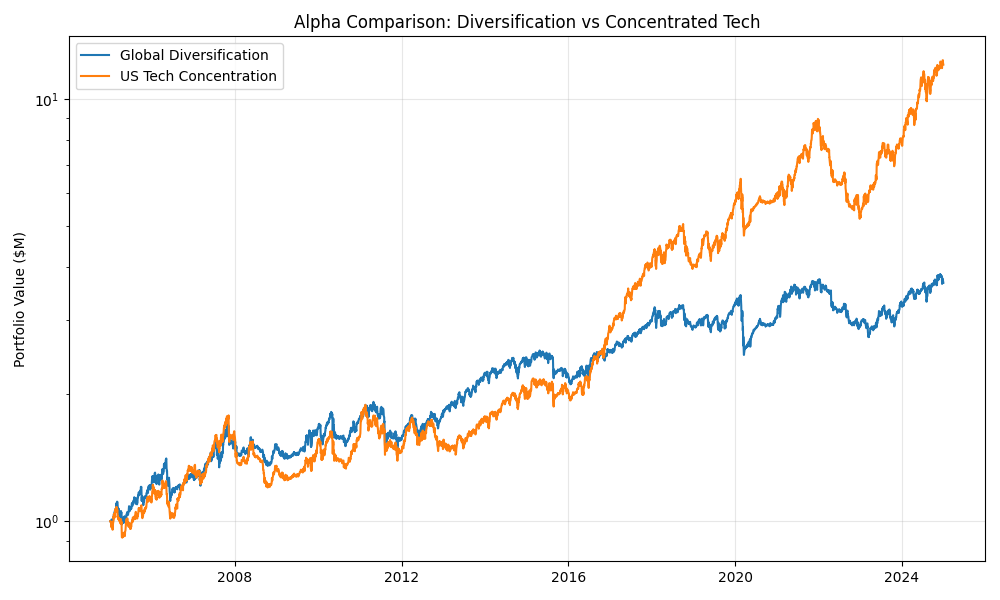
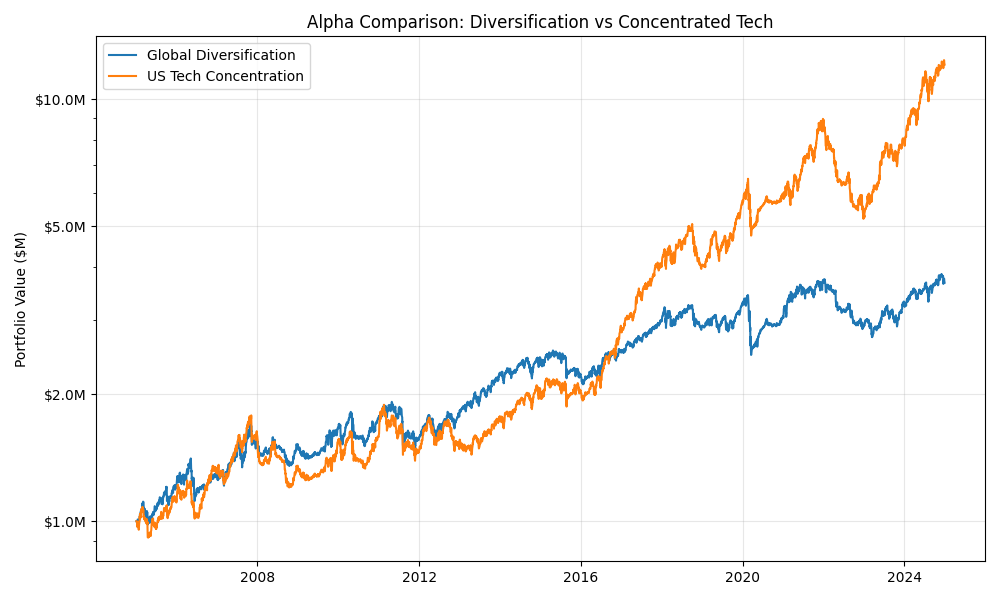
style: implement high-resolution axis granularity for all 21 figures

diff --git a/run_all_experiments.py b/run_all_experiments.py
@@ -78,6 +78,12 @@ def exp_cost():
         plt.plot(c.index, c.values / 1e6, label=c.name)
     plt.title("Cost Impact on Portfolio Growth (Log Scale)")
     plt.yscale('log')
+    # Granular Log-Scale Axis
+    import matplotlib.ticker as mtick
+    plt.gca().yaxis.set_major_locator(mtick.LogLocator(base=10, subs=[1.0, 2.0, 5.0]))
+    plt.gca().yaxis.set_major_formatter(mtick.ScalarFormatter())
+    plt.gca().get_yaxis().set_major_formatter(mtick.FuncFormatter(lambda x, _: f"${x:.1f}M"))
+    
     plt.ylabel("Portfolio Value ($M)")
     plt.grid(True, alpha=0.3)
     plt.legend()
@@ -108,6 +114,8 @@ def exp_mom():
     
     ax1.set_ylabel('CAGR (%)', color='skyblue')
     ax2.set_ylabel('Sharpe Ratio', color='orange')
+    ax1.yaxis.set_major_locator(plt.MaxNLocator(nbins=6))
+    ax2.yaxis.set_major_locator(plt.MaxNLocator(nbins=6))
     plt.xticks(x, df['Window'])
     plt.title("Momentum Window Comparison")
     plt.grid(True, axis='y', alpha=0.3)
@@ -132,6 +140,12 @@ def exp_smoothing():
         plt.plot(c.index, c.values / 1e6, label=c.name)
     plt.title("Effect of Laddered Smoothing on Equity Curve")
     plt.yscale('log')
+    # Granular Log-Scale Axis
+    import matplotlib.ticker as mtick
+    plt.gca().yaxis.set_major_locator(mtick.LogLocator(base=10, subs=[1.0, 2.0, 5.0]))
+    plt.gca().yaxis.set_major_formatter(mtick.ScalarFormatter())
+    plt.gca().get_yaxis().set_major_formatter(mtick.FuncFormatter(lambda x, _: f"${x:.1f}M"))
+    
     plt.ylabel("Portfolio Value ($M)")
     plt.grid(True, alpha=0.3)
     plt.legend()
@@ -155,6 +169,7 @@ def exp_lag():
     plt.title("Performance Sensitivity to Reporting Lag")
     plt.xlabel("Reporting Lag (Days)")
     plt.ylabel("CAGR (%)")
+    plt.gca().yaxis.set_major_locator(plt.MaxNLocator(nbins=8))
     plt.grid(True, alpha=0.3)
     plt.tight_layout()
     plt.savefig(f"{PLOTS_DIR}research_4_fundamental_lag.png")
@@ -178,6 +193,12 @@ def exp_universe():
     plt.plot(c_tech.index, c_tech.values / 1e6, label="US Tech Concentration")
     plt.title("Alpha Comparison: Diversification vs Concentrated Tech")
     plt.yscale('log')
+    # Granular Log-Scale Axis
+    import matplotlib.ticker as mtick
+    plt.gca().yaxis.set_major_locator(mtick.LogLocator(base=10, subs=[1.0, 2.0, 5.0]))
+    plt.gca().yaxis.set_major_formatter(mtick.ScalarFormatter())
+    plt.gca().get_yaxis().set_major_formatter(mtick.FuncFormatter(lambda x, _: f"${x:.1f}M"))
+    
     plt.ylabel("Portfolio Value ($M)")
     plt.grid(True, alpha=0.3)
     plt.legend()

diff --git a/janus_rotational/analytics/plots.py b/janus_rotational/analytics/plots.py
@@ -118,8 +118,7 @@ def plot_regime_overlay(
     _regime_fill(ax, spy.index, regime)
 
     ax.plot(spy.index, spy, color=SPY_COLOR, linewidth=1.4, zorder=2, label="SPY (adj. close)")
-    ax.set_ylabel("Adjusted Close (USD)", **FONT_LABEL)
-    ax.set_xlabel("")
+    ax.yaxis.set_major_locator(plt.MaxNLocator(nbins=8, prune='both'))
     ax.tick_params(axis="both", **FONT_TICK)
     ax.xaxis.set_major_formatter(mdates.DateFormatter("%Y"))
     ax.xaxis.set_major_locator(mdates.YearLocator())
@@ -197,6 +196,7 @@ def plot_capital_allocation(
 
     ax.set_ylim(0, 100)
     ax.yaxis.set_major_formatter(mtick.PercentFormatter())
+    ax.yaxis.set_major_locator(mtick.MultipleLocator(20))
     ax.set_ylabel("% of Portfolio", **FONT_LABEL)
     ax.set_xlabel("")
     ax.tick_params(axis="both", **FONT_TICK)
@@ -273,10 +273,12 @@ def plot_equity_and_drawdown(
         )
 
     ax1.set_ylabel("Portfolio Value (log scale, USD)", **FONT_LABEL)
-    ax1.yaxis.set_major_formatter(mtick.FuncFormatter(
+    # Granular Log-Scale Axis
+    ax1.yaxis.set_major_locator(mtick.LogLocator(base=10, subs=[1.0, 2.0, 5.0]))
+    ax1.yaxis.set_major_formatter(mtick.ScalarFormatter())
+    ax1.get_yaxis().set_major_formatter(mtick.FuncFormatter(
         lambda x, _: f"${x/1e6:.1f}M" if x >= 1e6 else f"${x/1e3:.0f}K"
     ))
-    ax1.legend(loc="upper left", **FONT_LEGEND)
     ax1.tick_params(axis="both", **FONT_TICK)
     plt.setp(ax1.get_xticklabels(), visible=False)
 
